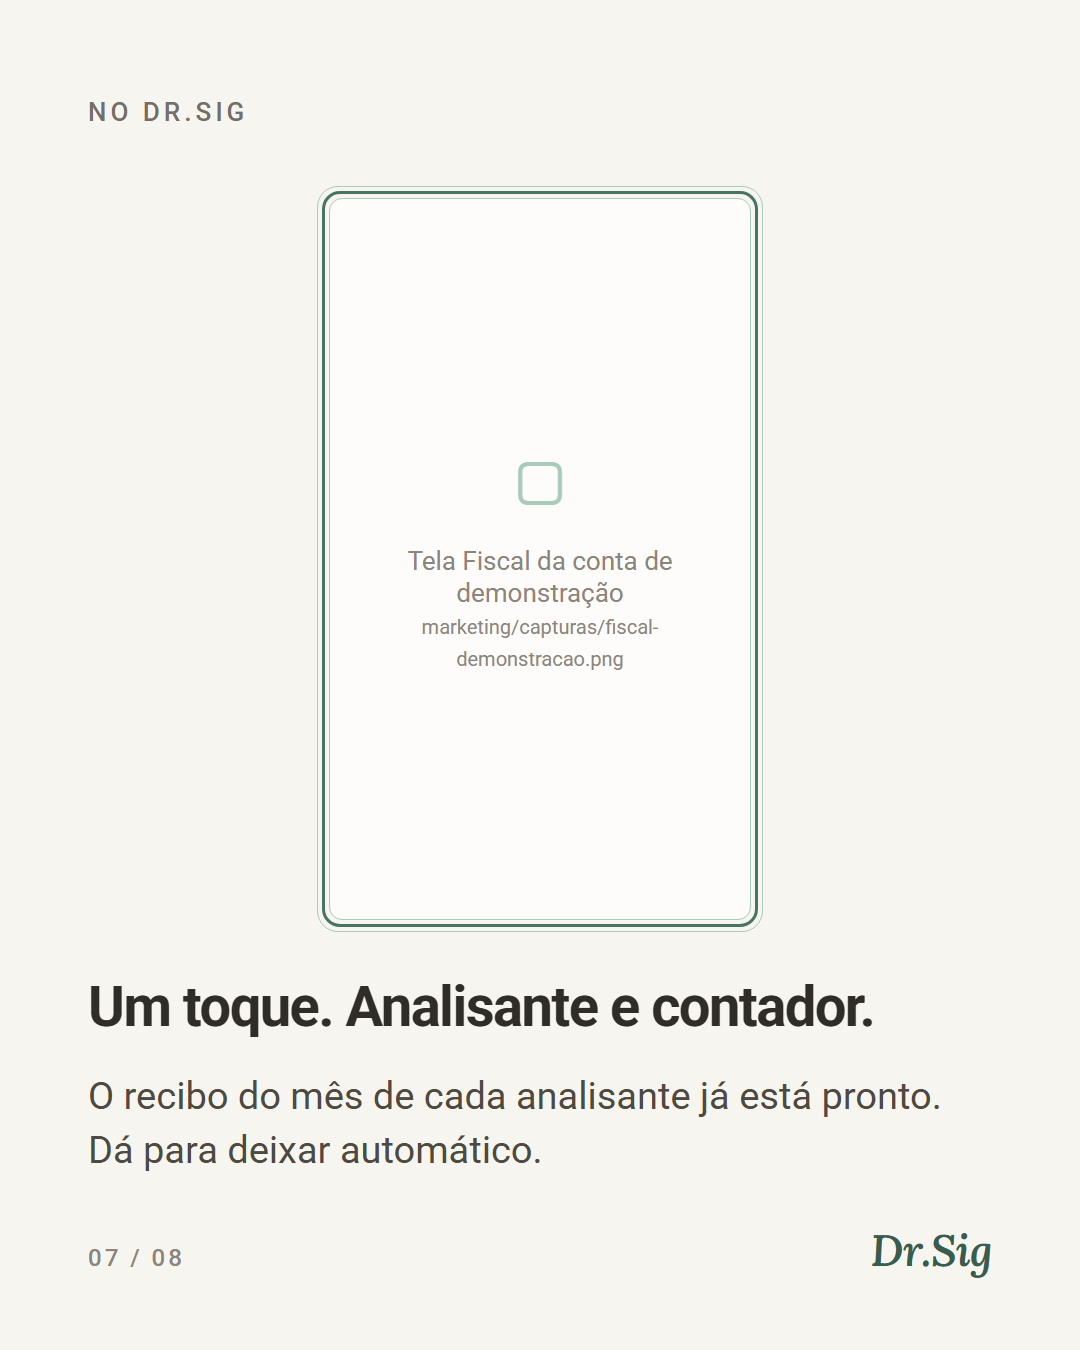
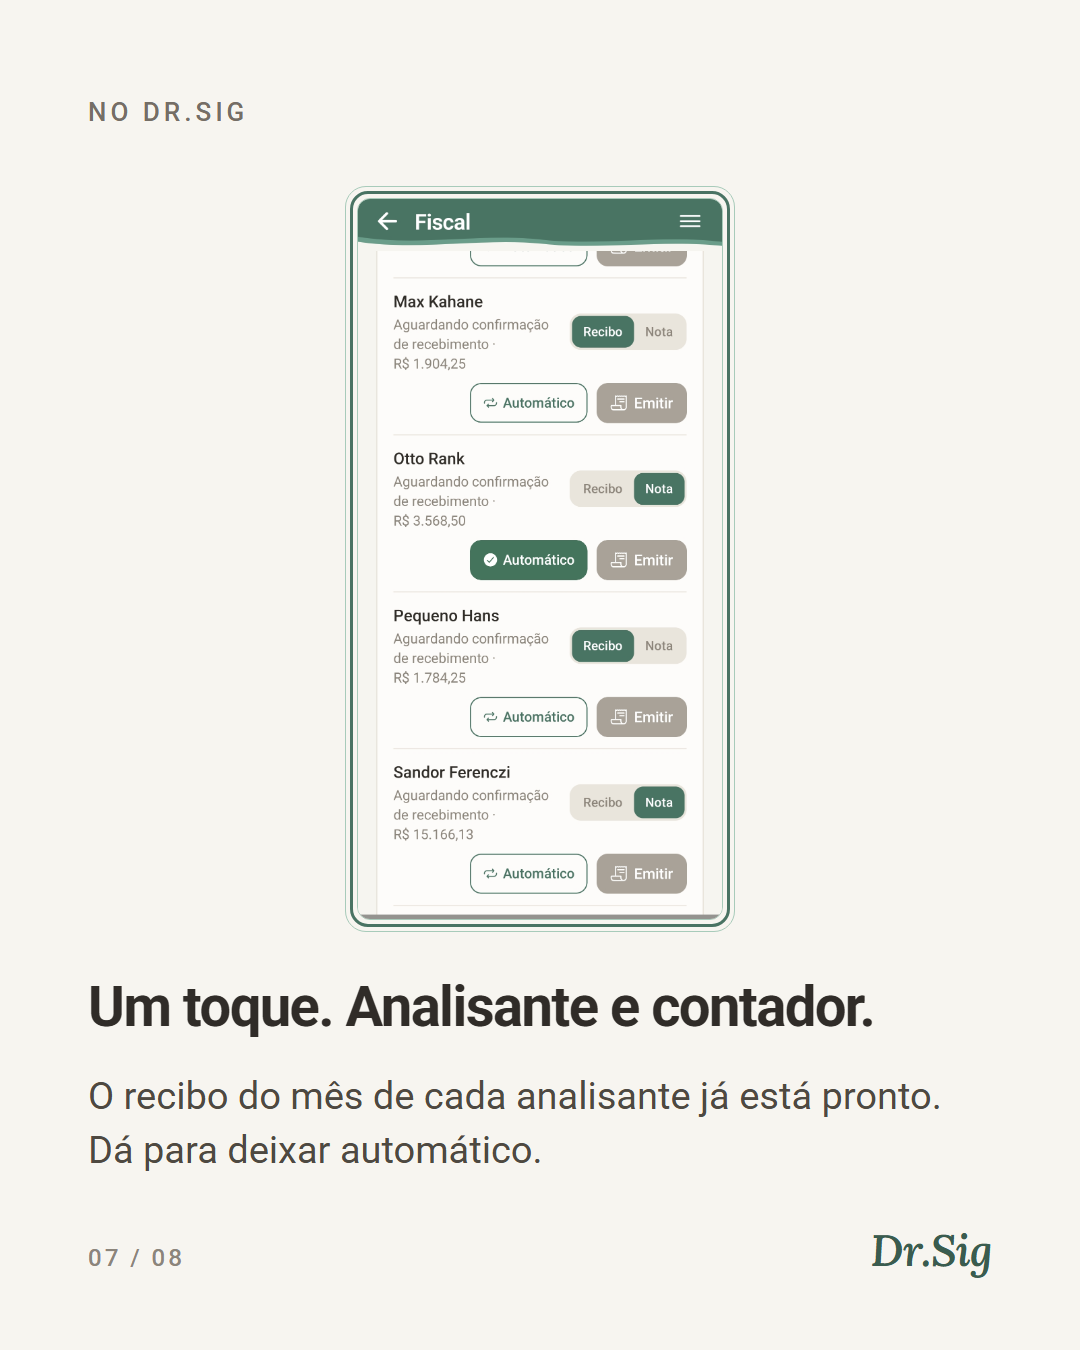
marketing: capturas da conta de demonstracao (Cobranca, Novo Registro, Agenda, Fiscal); quadro 7 do carrossel com a tela Fiscal

Changed region(s): [[0.275, 0.1244, 0.7028, 0.6844], [0.3667, 0.2178, 0.4889, 0.28]]

diff --git a/marketing/aprovado/2026-09-15-recibo-em-um-toque/peca.md b/marketing/aprovado/2026-09-15-recibo-em-um-toque/peca.md
@@ -7,7 +7,7 @@ objetivo: cliques no link e cadastros com origem instagram
 chamada: Conhecer o app (link na bio)
 link: https://drsig.com.br/blog/recibo-de-psicoterapia-imposto-de-renda.html?utm_source=instagram&utm_campaign=2026-09-recibo-ir
 estado: aprovado (11/09/2026)
-arte: pronta (8 quadros), captura pendente: fiscal-demonstracao
+arte: pronta (8 quadros)
 ---
 
 # Quadros
